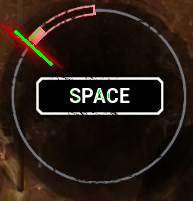
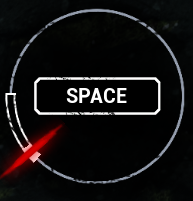
changed detection values, now detected skills and wiggles

diff --git a/dbd/screen/tracking.py b/dbd/screen/tracking.py
@@ -18,13 +18,9 @@ def press_space():
     ctypes.windll.user32.keybd_event(VK_SPACE, 0, KEYEVENTF_EXTENDEDKEY | KEYEVENTF_KEYUP, 0)
 
 def track_objects(PERCENTAGE, DISTANCE_THRESHOLD=10, ANGLE_THRESHOLD=np.pi/6, LENGTH_THRESHOLD=70):
-    time.sleep(5)
+    #time.sleep(5)
     lines, screenshot_cv = detect_lines(PERCENTAGE)
     boxes = detect_white_box(screenshot_cv)
-    print("lines")
-    print(lines)
-    print("boxes")
-    print(boxes)
 
     if lines is not None and boxes is not None:
         line = None
@@ -33,16 +29,17 @@ def track_objects(PERCENTAGE, DISTANCE_THRESHOLD=10, ANGLE_THRESHOLD=np.pi/6, LE
         for line in merged_lines:
             x1, y1, x2, y2 = line
             #print(line_points )
-            cv2.line(screenshot_cv, (int(x1), int(y1)), (int(x2), int(y2)), (0, 255, 0), 2)
+            #cv2.line(screenshot_cv, (int(x1), int(y1)), (int(x2), int(y2)), (0, 255, 0), 2)
 
         #print(f"Detected {len(boxes)} white boxes.") 
         # Draw bounding box around each detected box
         for box in boxes:
             x, y, w, h = box
             box_points = np.array([(x, y), (x, y+h), (x+w, y+h), (x+w, y)])
-            screenshot_cv = cv2.rectangle(screenshot_cv, (x, y), (x+w, y+h), (0,255,255), 2)  # BGR for Yellow is (0, 255, 255)
+            #screenshot_cv = cv2.rectangle(screenshot_cv, (x, y), (x+w, y+h), (0,255,255), 2)  # BGR for Yellow is (0, 255, 255)
             
             if line is not None and overlap(line, box_points):
+                #print("Overlap detected")
                 #print("Overlap detected at " + str(time.time()))    
                 press_space()
                 #print("Pressed space at " + str(time.time()))
@@ -76,11 +73,3 @@ def track_loop(stop_event):
         if time.time() - start_time > 60:
             print("Exiting...")
             break
-
-        #if cv2.waitKey(1) & 0xFF == ord('q'):
-        if 0xFF == ord('q'):
-            print('Exiting...')
-            cv2.destroyAllWindows()
-            break
-
-        #time.sleep(0.00001)

diff --git a/dbd/screen/rectange_detect.py b/dbd/screen/rectange_detect.py
@@ -38,7 +38,7 @@ def detect_white_box(screenshot_cv):
 
         # Find bounding box coordinates
         x, y, w, h = cv2.boundingRect(contour)
-        cv2.drawContours(screenshot_cv, [contour], -1, (0,255,0), 1)
+        #cv2.drawContours(screenshot_cv, [contour], -1, (0,255,0), 1)
 
         # Extract box content
         box_content = screenshot_cv[y:y+h, x:x+w]
@@ -50,10 +50,10 @@ def detect_white_box(screenshot_cv):
         # Calculate area and remove small elements
         area = cv2.contourArea(contour)
 
-        min_area_threshold = 60  # minimum threshold for area
-        max_area_threshold = 100  # maximum threshold for area
+        min_area_threshold = 50  # minimum threshold for area
+        max_area_threshold = 350  # maximum threshold for area
     
-        if min_area_threshold < area < max_area_threshold and np.all(avg_color > 50):
+        if min_area_threshold < area < max_area_threshold and np.all(avg_color > 45):
             # Find bounding box coordinates
             #print("Area: ", area)
             #print("Avg color: ", avg_color)

diff --git a/dbd/screen/line_tracking.py b/dbd/screen/line_tracking.py
@@ -30,7 +30,7 @@ def merge_lines(lines, distance_threshold, angle_threshold, length_threshold):
     return merged_lines
 
 
-def detect_lines(PERCENTAGE, MIN_LINE_LENGTH=30, MAX_LINE_GAP=10):
+def detect_lines(PERCENTAGE, MIN_LINE_LENGTH=25, MAX_LINE_GAP=15):
     # capture screen
     screenshot =  capture_percentage_of_primary_screen(PERCENTAGE)
     #print("Captured screen in detect lines")
@@ -52,10 +52,10 @@ def detect_lines(PERCENTAGE, MIN_LINE_LENGTH=30, MAX_LINE_GAP=10):
     mask = mask0 + mask1
     res = cv2.bitwise_and(screenshot_cv, screenshot_cv, mask=mask)
     
-    blurred = cv2.GaussianBlur(res, (5, 5), 0)
+    blurred = cv2.GaussianBlur(res, (3, 3), 0)
     edges = cv2.Canny(blurred,100,125,apertureSize = 3)
     dilated = cv2.dilate(edges, None, iterations=1)
     
-    lines = cv2.HoughLinesP(dilated,1,np.pi/180,50, minLineLength=MIN_LINE_LENGTH, maxLineGap=MAX_LINE_GAP)
+    lines = cv2.HoughLinesP(dilated,1,np.pi/180,43, minLineLength=MIN_LINE_LENGTH, maxLineGap=MAX_LINE_GAP)
     
     return lines, screenshot_cv
